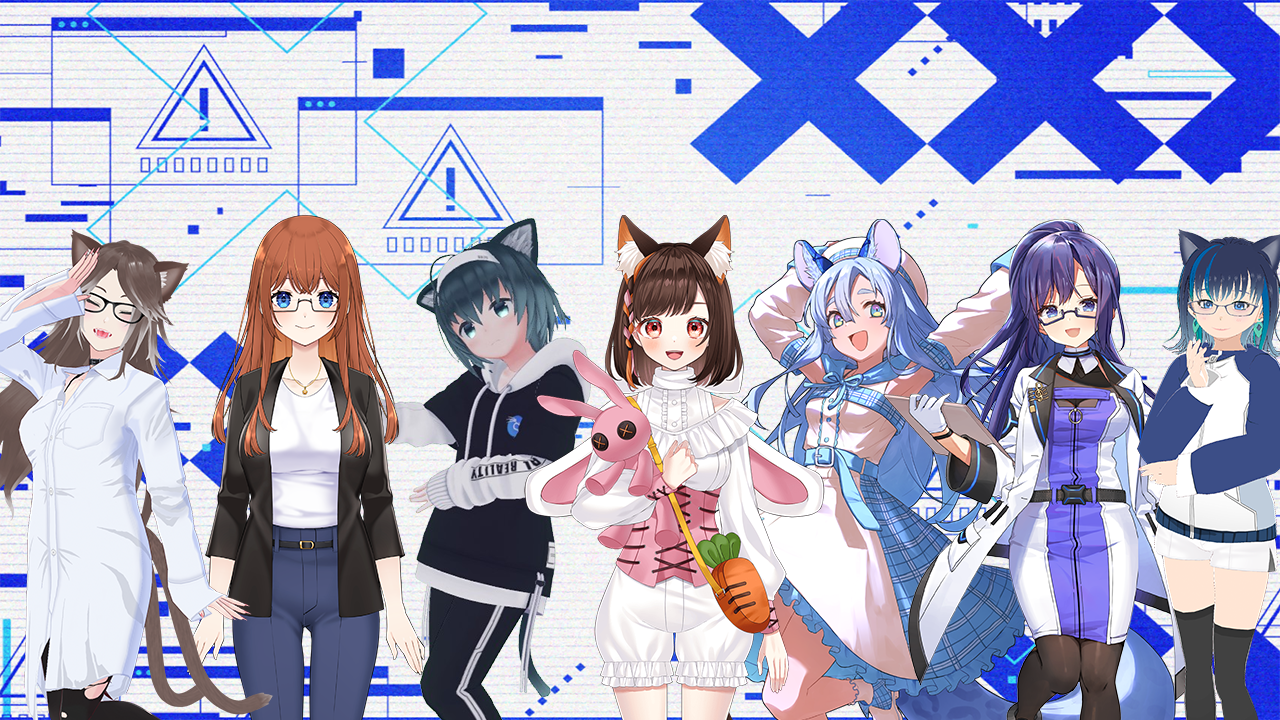
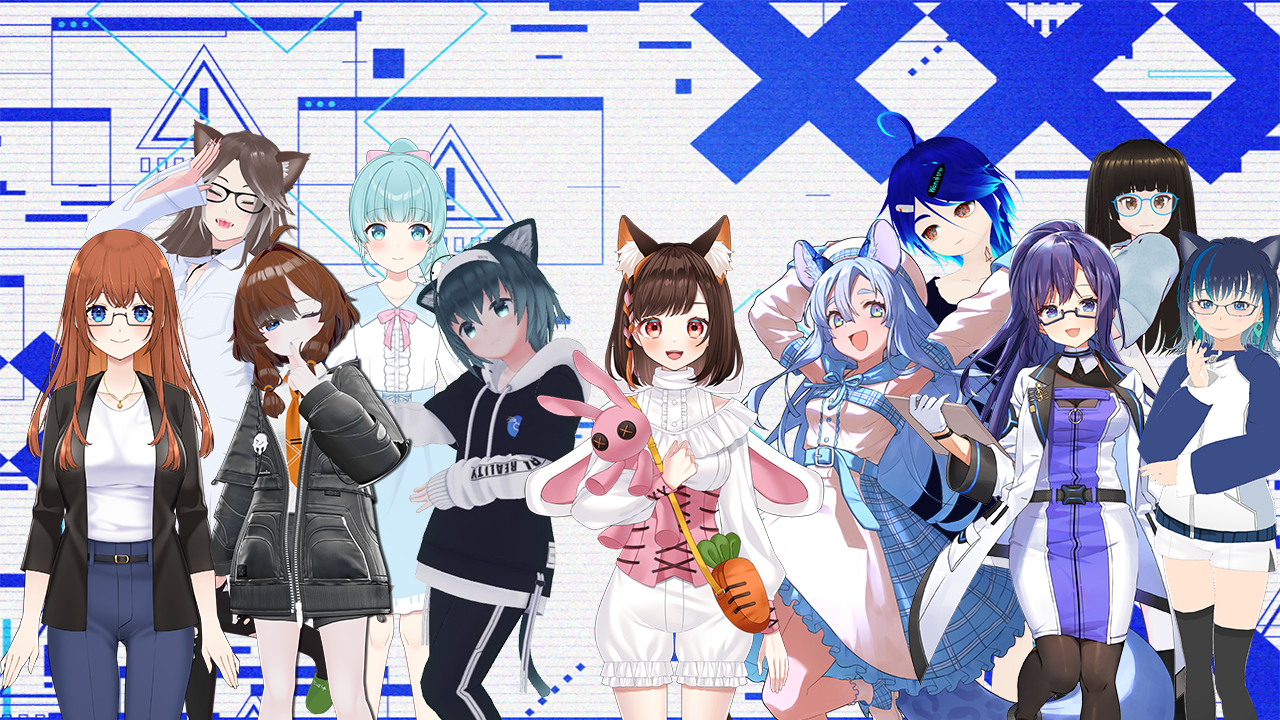
tamayura_souki, nagi_nagisa

diff --git a/pages/talents/tamayura_souki/index.vue b/pages/talents/tamayura_souki/index.vue
@@ -1,0 +1,39 @@
+<script setup lang="ts">
+definePageMeta({
+	layout: 'member-page'
+})
+const name = "珠響そうき";
+const yomi = "Tamayura Souki";
+const description = "魔術世界からバーチャル世界へ SSH！";
+useSeoMeta({
+	title: name,
+	description,
+	ogType: "profile",
+	ogTitle: name,
+	ogDescription: description,
+	profileUsername: name
+})
+</script>
+
+<template>
+	<aside class="tw-self-start tw-text-center tw-w-full xl:tw-w-auto">
+		<FullBodyImage
+			memberId="tamayura_souki"
+			:alt="yomi"
+		/>
+	</aside>
+	<section class="tw-px-10 xl:tw-px-14 tw-py-14 tw-text-base">
+		<section>
+			<ProfileHead :name="name" :yomi="yomi" :catchphrase="description">
+				ウィザードを目指して魔術世界からバーチャル世界に来たホムンクルス<br/>
+				バーチャル世界の魔術であるプログラミングや機械学習の勉強をしたりしなかったり<br/>
+				KusoKoudoKaigi を主催したり、プログラミングVを表にまとめたりする習性がある
+			</ProfileHead>
+			<div class="tw-w-fit tw-flex tw-flex-col xl:tw-flex-row xl:tw-flex-wrap tw-justify-between tw-items-center tw-gap-4">
+				<XProfile userId="tamayurasouki"/>
+				<YouTubeChannel handle="tamayurasouki"/>
+				<GitHubProfile userId="tamayura-souki"/>
+			</div>
+		</section>
+	</section>
+</template>

diff --git a/pages/talents/nagi_nagisa/index.vue b/pages/talents/nagi_nagisa/index.vue
@@ -1,0 +1,38 @@
+<script setup lang="ts">
+definePageMeta({
+	layout: 'member-page'
+})
+const name = "凪なぎさ";
+const yomi = "Nagi Nagisa";
+const description = "ノーバグ・ノーライフ";
+useSeoMeta({
+	title: name,
+	description,
+	ogType: "profile",
+	ogTitle: name,
+	ogDescription: description,
+	profileUsername: name
+})
+</script>
+
+<template>
+	<aside class="tw-self-start tw-text-center tw-w-full xl:tw-w-auto">
+		<FullBodyImage
+			memberId="nagi_nagisa"
+			:alt="yomi"
+		/>
+	</aside>
+	<section class="tw-px-10 xl:tw-px-14 tw-py-14 tw-text-base">
+		<section>
+			<ProfileHead :name="name" :yomi="yomi" :catchphrase="description">
+				ふわふわと海から流されてきたVtuber。<br/>
+				プログラミング、ゲーム制作、Webサービス開発など、クリエイティブな配信をしています。<br/>
+				バグと戦いつつも、リスナーのみんなと一緒に、面白くて新しい世界を作っていきたい！
+			</ProfileHead>
+			<div class="tw-w-fit tw-flex tw-flex-col xl:tw-flex-row xl:tw-flex-wrap tw-justify-between tw-items-center tw-gap-4">
+				<XProfile userId="nagi_nagisachan"/>
+				<YouTubeChannel handle="NagiNagisaCh"/>
+			</div>
+		</section>
+	</section>
+</template>

diff --git a/pages/index.vue b/pages/index.vue
@@ -90,6 +90,20 @@ const members: Member[] = [
 		imageId: "lina_tsukusu",
 		imageAlt: "Lina Tsukusu",
 	},
+	{
+		name: "珠響そうき",
+		yomi: "Tamayura Souki",
+		profileId: "tamayura_souki",
+		imageId: "tamayura_souki",
+		imageAlt: "Tamayura Souki",
+	},
+	{
+		name: "凪なぎさ",
+		yomi: "Nagi Nagisa",
+		profileId: "nagi_nagisa",
+		imageId: "nagi_nagisa",
+		imageAlt: "Nagi Nagisa",
+	},
 ];
 
 type Unit = {
@@ -320,6 +334,7 @@ if (import.meta.client) {
 									<li>社会的に不適切な行為（ハラスメント、差別、それらを助長する行為等）を行わない。</li>
 									<li>「ぶいぎーく！」のDiscordサーバーや運営とのコミュニケーションを許可なく外部に共有しない。</li>
 									<li>本ウェブサイトに掲載するための名前（日本語および英語表記）、立ち絵などの画像、口上、説明文を用意できる。</li>
+									<li>メンバーの特別な紹介でない場合、成人している (18歳以上である) こと</li>
 								</ul>
 							</section>
 							<section>

diff --git a/pages/talents/iris2664/index.vue b/pages/talents/iris2664/index.vue
@@ -1,4 +1,6 @@
 <script setup lang="ts">
+import OtherSiteLink from '~/components/OtherSiteLink.vue';
+
 definePageMeta({
 	layout: 'member-page'
 })
@@ -33,7 +35,7 @@ useSeoMeta({
 			<div class="tw-w-fit tw-flex tw-flex-col xl:tw-flex-row xl:tw-flex-wrap tw-justify-between tw-items-center tw-gap-4">
 				<XProfile userId="iris2664"/>
 				<YouTubeChannel handle="iris2664jp"/>
-				<a href="https://vtuber.iris2664.com/" target="_blank" rel="noopener noreferrer">東雲絢芽個人サイト</a>
+				<OtherSiteLink href="https://vtuber.iris2664.com/">Website</OtherSiteLink>
 			</div>
 		</section>
 		<section>
